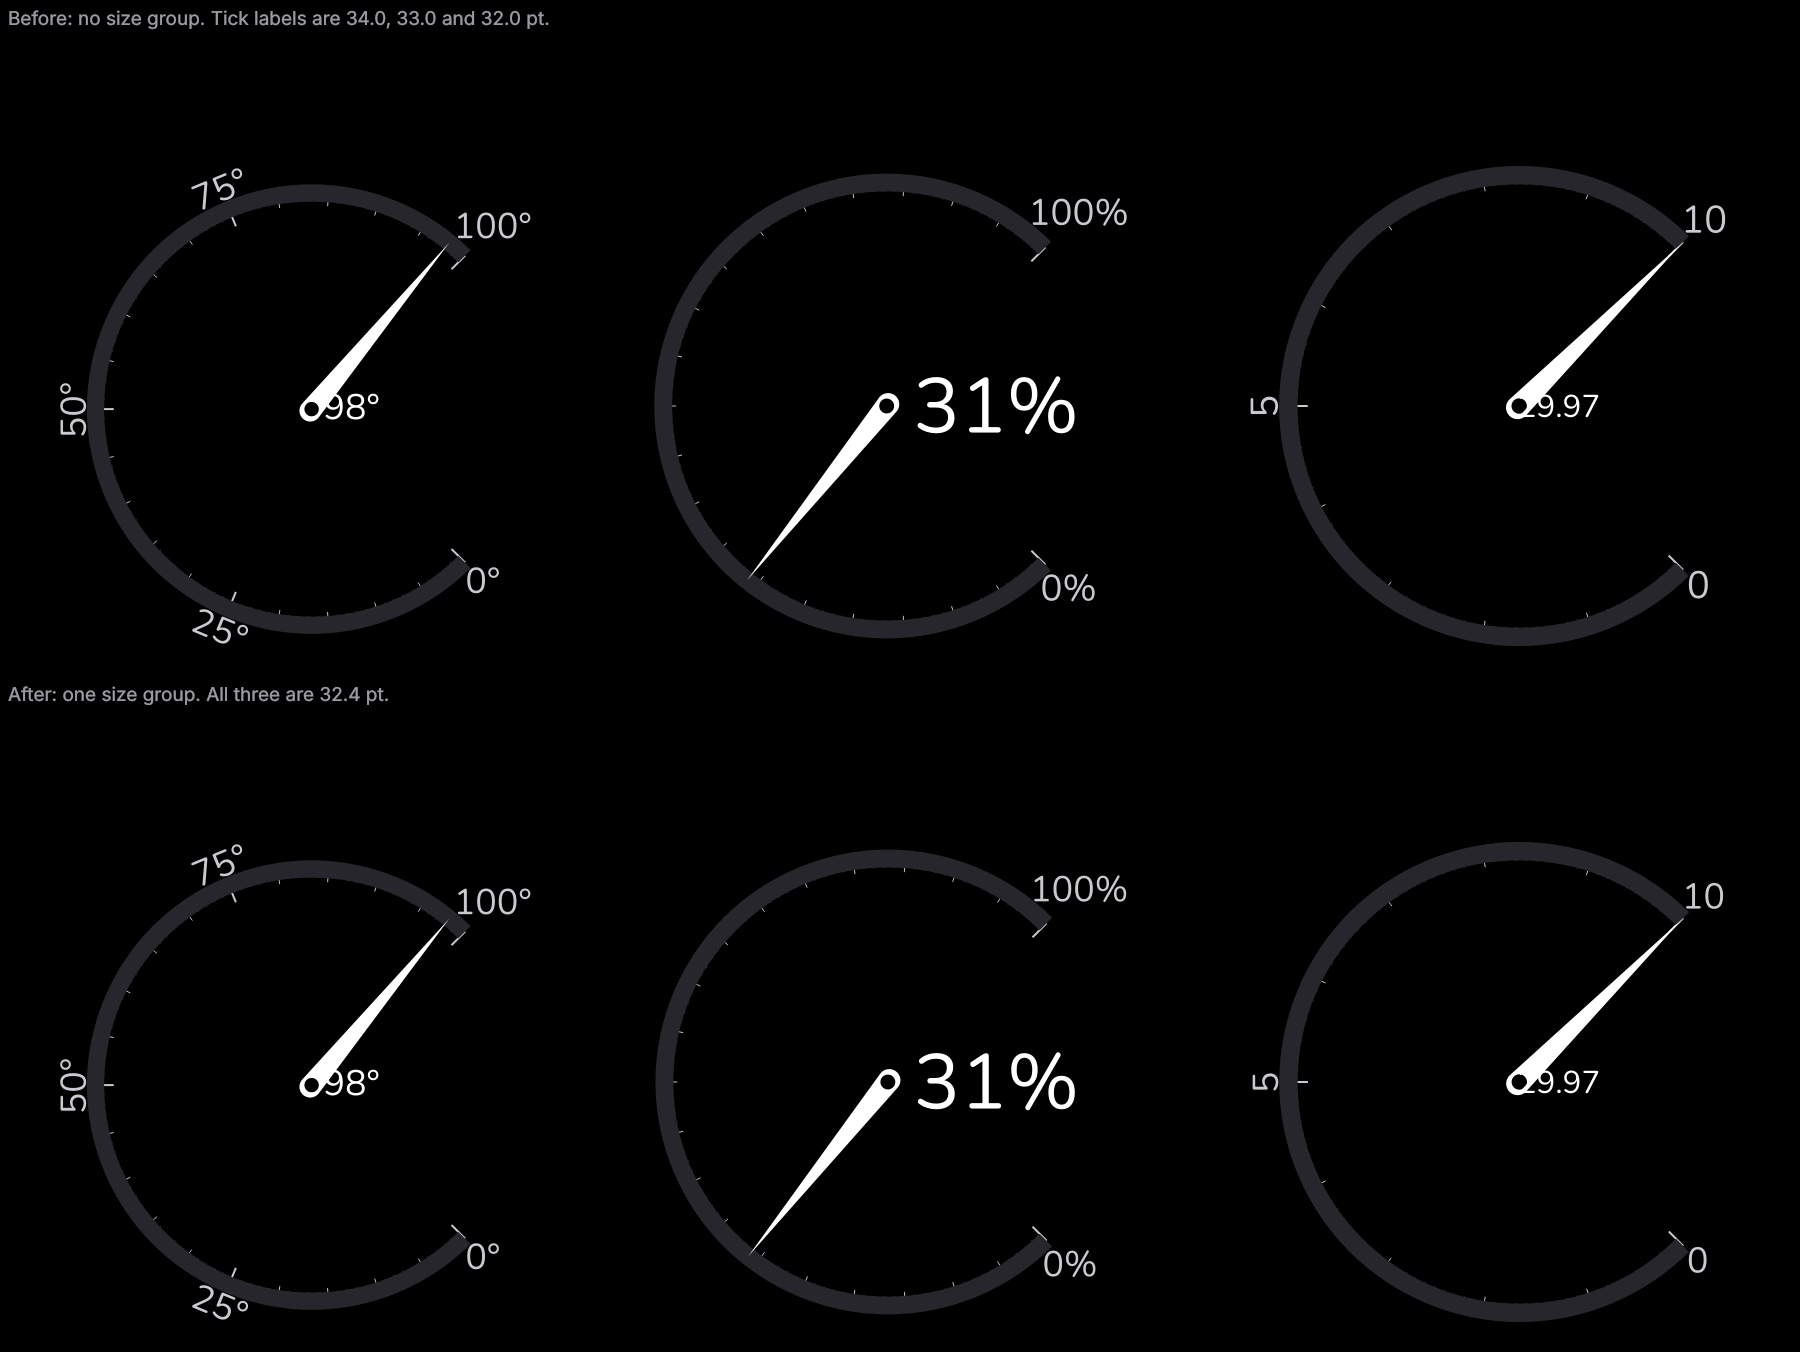
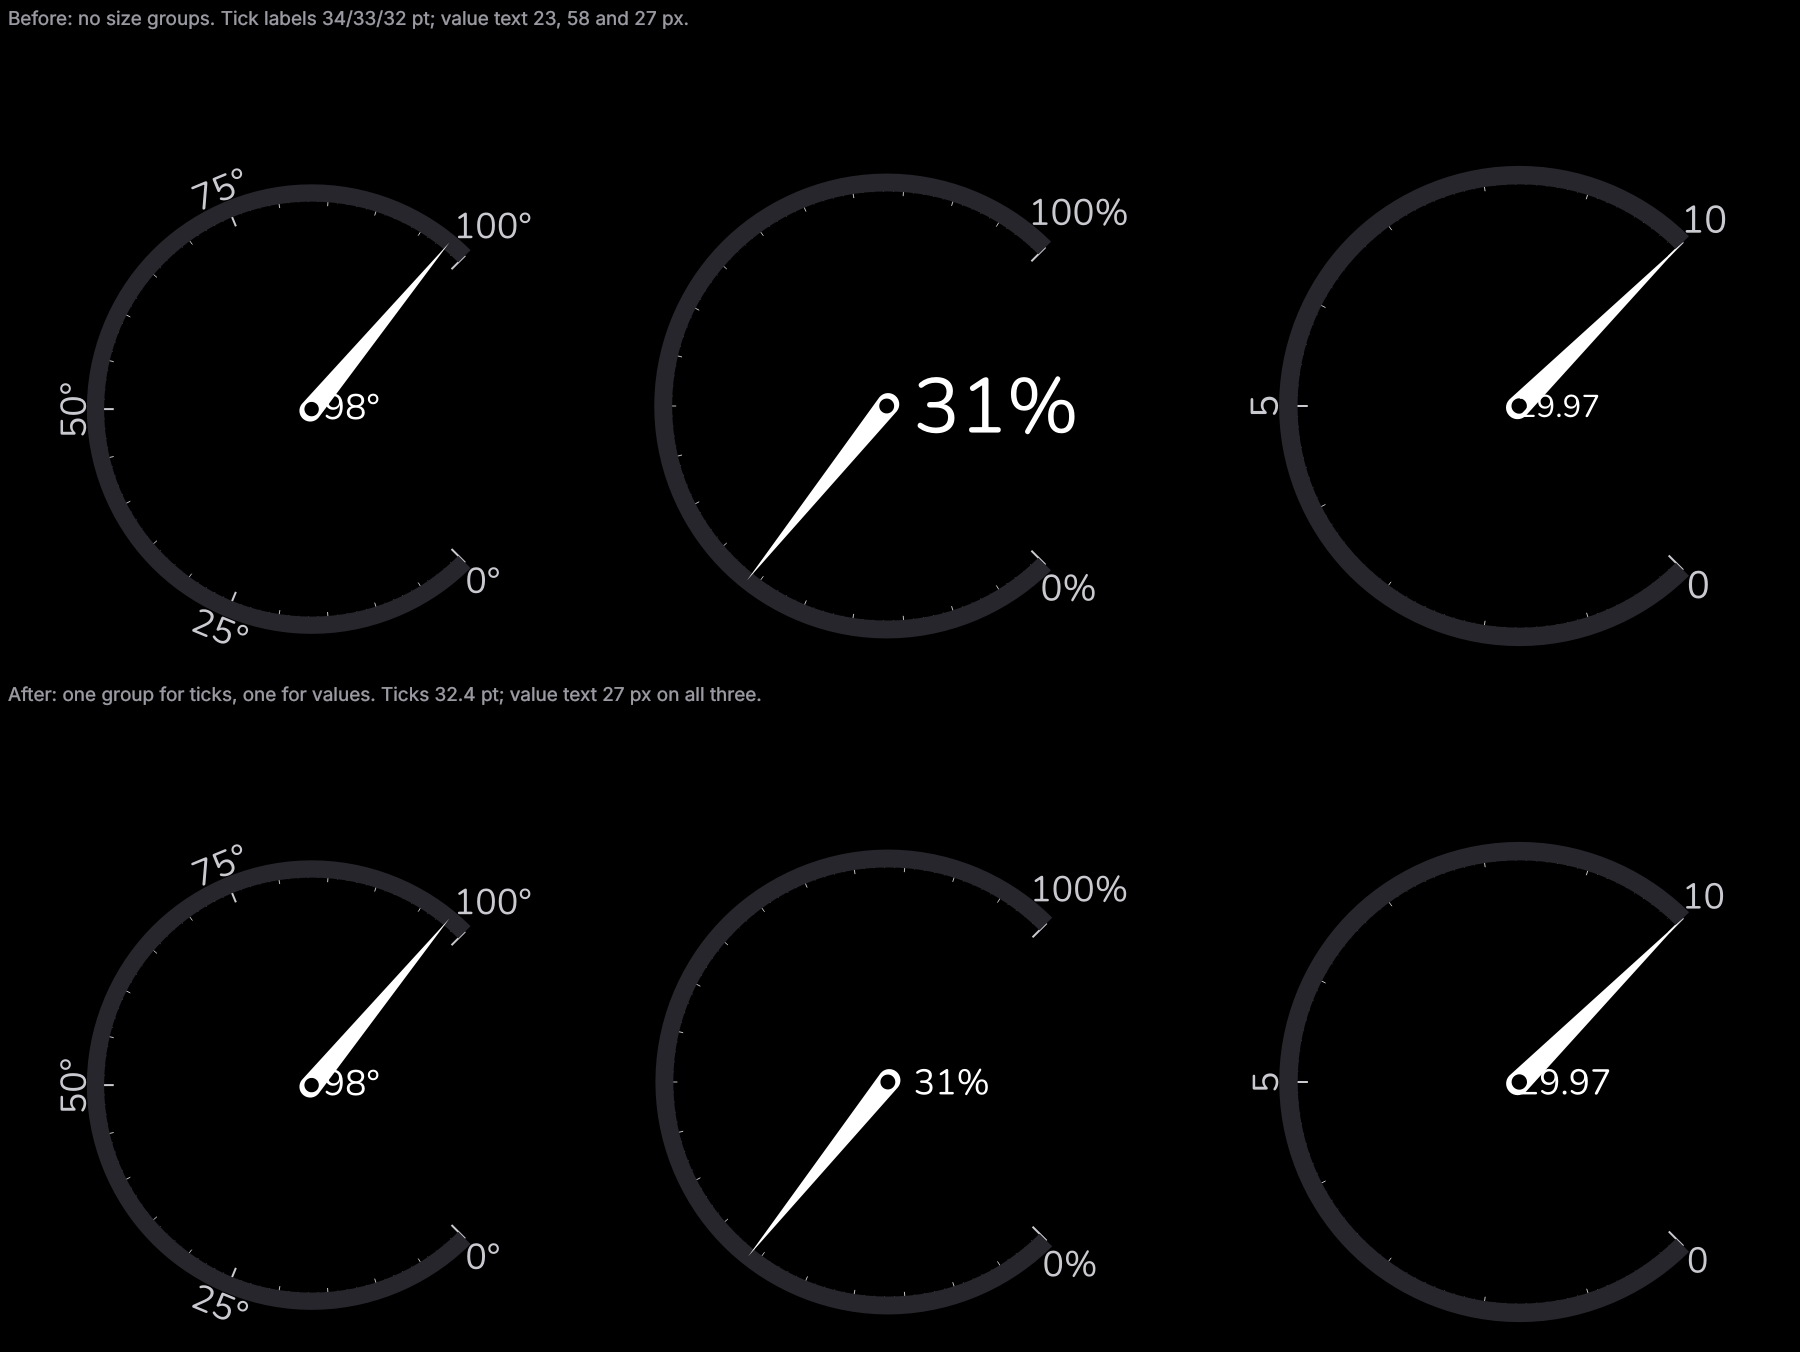
docs(Gauge): Show tick labels and value labels in separate size groups
Claude-Session: https://claude.ai/code/session_01UJLhZ5rFV4g8pnfgXYHjDA

diff --git a/docs/config/dashboard.md b/docs/config/dashboard.md
@@ -532,11 +532,19 @@ annotations:
 
 #### Matching label sizes
 
-`dayLabels` and `hourLabels` take `matchingGroup`, the same option a text item has, so the labels of several graphs can share one size. The gauge's tick labels (`major`, `minor` and `micro` `labels`) take it too. Every label of the set joins the group. The scopes are the ones a text item uses (`local.name`, `parent.name`, `name@panel`), resolved against the graph or the gauge.
+`dayLabels` and `hourLabels` take `matchingGroup`, the same option a text item has, so the labels of several graphs can share one size. The gauge's tick labels (`major`, `minor` and `micro` `labels`) take it too, and so does its `value-label`, so a row of gauges can keep their tick labels in one group and their value text in another. Every label of the set joins the group. The scopes are the ones a text item uses (`local.name`, `parent.name`, `name@panel`), resolved against the graph or the gauge.
 
 ```yaml
 annotations:
   dayLabels: {height: 14%, matchingGroup: {group: parent.days, matchAll: true}}
+```
+
+```yaml
+# on each gauge
+display:
+  value-label: {matchingGroup: {group: parent.values, matchAll: true}}
+  major:
+    labels: {matchingGroup: {group: parent.ticks, matchAll: true}}
 ```
 
 Labels only match inside one height tier (see the size-group rules), so graphs or dials of very different size keep their own sizes. Example boards, with renders: [day labels](design-references/size-groups/day-labels-group.levity) and [gauge tick labels](design-references/size-groups/tick-labels-group.levity).
